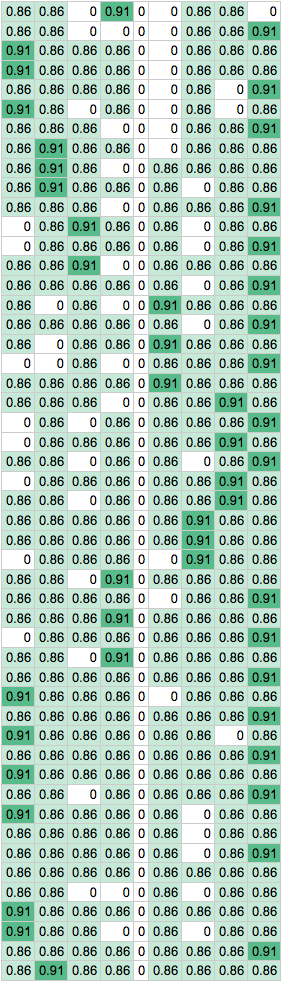
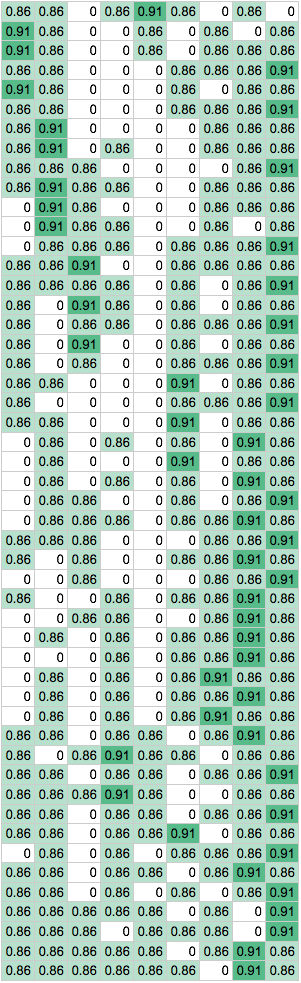
also track when direction vector is in center of matrix, i.e. under threshold for motion; when treated as no motion

diff --git a/webApp/gestures.js b/webApp/gestures.js
@@ -180,7 +180,7 @@ function getVelocityDirection(event) {
     if (Math.abs(dx) < thresholdMovementSize && Math.abs(dy) < thresholdMovementSize) {
         directionx = 1;
         directiony = 1;
-        directionMatrix[directionx][directiony] = 0;
+        directionMatrix[directionx][directiony] = 1;
     } else {
         document.getElementById("checkSamplePeriod").innerHTML = parseInt(document.getElementById("checkSamplePeriod").innerHTML) + 1;
         if (dx < 0) {

diff --git a/webApp/split.py b/webApp/split.py
@@ -4,7 +4,7 @@
 # with empty lines between each line.
 
 # copy the wts string from gestures.html (in your browser) and put it between quotation marks here:
-wts = "0.86,0.86,0,0.91,0,0,0.86,0.86,0,0.86,0.86,0,0,0,0,0.86,0.86,0.91,0.91,0.86,0.86,0.86,0,0,0.86,0.86,0.86,0.91,0.86,0.86,0.86,0,0,0.86,0.86,0.86,0.86,0.86,0.86,0.86,0,0,0.86,0,0.91,0.91,0.86,0,0.86,0,0,0.86,0,0.86,0.86,0.86,0.86,0,0,0,0.86,0.86,0.91,0.86,0.91,0.86,0.86,0,0,0.86,0.86,0.86,0.86,0.91,0.86,0,0,0.86,0.86,0.86,0.86,0.86,0.91,0.86,0.86,0,0.86,0,0.86,0.86,0.86,0.86,0.86,0,0,0.86,0.86,0.86,0.91,0,0.86,0.91,0.86,0,0.86,0,0.86,0.86,0,0.86,0.86,0.86,0,0.86,0,0.86,0.91,0.86,0.86,0.91,0,0,0.86,0.86,0.86,0.86,0.86,0.86,0.86,0.86,0,0.86,0,0.86,0.91,0.86,0,0.86,0,0,0.91,0.86,0.86,0.86,0.86,0.86,0.86,0.86,0,0.86,0,0.86,0.91,0.86,0,0.86,0.86,0,0.91,0.86,0.86,0.86,0,0,0.86,0,0,0.86,0.86,0.86,0.91,0.86,0.86,0.86,0.86,0,0.91,0.86,0.86,0.86,0.86,0.86,0.86,0,0,0.86,0.86,0.91,0.86,0,0.86,0,0.86,0,0.86,0.86,0.86,0.91,0,0.86,0.86,0.86,0,0.86,0.86,0.91,0.86,0.86,0.86,0,0.86,0,0.86,0,0.86,0.91,0,0.86,0.86,0.86,0,0.86,0.86,0.91,0.86,0.86,0.86,0,0.86,0,0.86,0.86,0.91,0.86,0.86,0.86,0.86,0.86,0,0.86,0.91,0.86,0.86,0.86,0.86,0.86,0.86,0,0.86,0.91,0.86,0.86,0,0.86,0.86,0.86,0,0,0.91,0.86,0.86,0.86,0.86,0,0.91,0,0.86,0.86,0.86,0.86,0.86,0.86,0.86,0.86,0,0,0.86,0.86,0.91,0.86,0.86,0.86,0.91,0,0.86,0.86,0.86,0.86,0,0.86,0.86,0.86,0,0.86,0.86,0.86,0.91,0.86,0.86,0,0.91,0,0.86,0.86,0.86,0.86,0.86,0.86,0.86,0.86,0,0.86,0.86,0.86,0.91,0.91,0.86,0.86,0.86,0,0,0.86,0.86,0.86,0.86,0.86,0.86,0.86,0,0.86,0.86,0.86,0.91,0.91,0.86,0.86,0.86,0,0.86,0.86,0,0.86,0.86,0.86,0.86,0.86,0,0.86,0.86,0.86,0.91,0.91,0.86,0.86,0.86,0,0.86,0.86,0.86,0.86,0.86,0.86,0,0.86,0,0.86,0.86,0.86,0.91,0.91,0.86,0.86,0.86,0,0.86,0,0.86,0.86,0.86,0.86,0.86,0.86,0,0.86,0,0.86,0.86,0.86,0.86,0.86,0.86,0,0.86,0,0.86,0.91,0.86,0.86,0.86,0.86,0,0.86,0.86,0.86,0.86,0.86,0.86,0,0,0,0.86,0,0.86,0.86,0.91,0.86,0.86,0.86,0,0.86,0.86,0.86,0.86,0.91,0.86,0.86,0,0,0.86,0,0.86,0.86,0.86,0.86,0.86,0.86,0,0.86,0.86,0.86,0.91,0.86,0.91,0.86,0.86,0,0.86,0.86,0.86,0.86"
+wts="0.86,0.86,0,0.86,0.91,0.86,0,0.86,0,0.91,0.86,0,0,0.86,0,0.86,0,0.86,0.91,0.86,0,0,0.86,0,0.86,0.86,0.86,0.86,0.86,0,0,0,0.86,0.86,0.86,0.91,0.91,0.86,0,0,0,0.86,0,0.86,0.86,0.86,0.86,0,0,0,0.86,0.86,0.86,0.91,0.86,0.91,0,0,0,0,0.86,0.86,0.86,0.86,0.91,0,0.86,0,0,0.86,0.86,0.86,0.86,0.86,0.86,0,0,0,0,0.86,0.91,0.86,0.91,0.86,0.86,0,0,0.86,0.86,0.86,0,0.91,0.86,0,0,0,0.86,0.86,0.86,0,0.91,0.86,0.86,0,0,0.86,0,0.86,0,0.86,0.86,0.86,0,0.86,0.86,0.86,0.91,0.86,0.86,0.91,0,0,0.86,0.86,0.86,0.86,0.86,0.86,0.86,0.86,0,0.86,0,0.86,0.91,0.86,0,0.91,0.86,0,0.86,0,0.86,0.86,0.86,0,0.86,0.86,0,0.86,0.86,0.86,0.91,0.86,0,0.91,0,0,0.86,0,0.86,0.86,0.86,0,0.86,0,0,0.86,0.86,0.86,0.91,0.86,0.86,0,0,0,0.91,0,0.86,0.86,0.86,0,0,0,0,0.86,0.86,0.86,0.91,0.86,0.86,0,0,0,0.91,0,0.86,0.86,0,0.86,0,0.86,0,0.86,0,0.91,0.86,0,0.86,0,0,0,0.91,0,0.86,0.86,0,0.86,0,0.86,0,0.86,0,0.91,0.86,0,0.86,0.86,0,0,0.86,0,0.86,0.91,0,0.86,0.86,0.86,0,0.86,0.86,0.91,0.86,0.86,0.86,0.86,0,0,0,0.86,0.86,0.91,0.86,0,0.86,0,0,0.86,0.86,0.91,0.86,0,0,0.86,0,0,0,0.86,0.86,0.91,0.86,0,0,0.86,0,0.86,0.86,0.91,0.86,0,0,0.86,0.86,0,0,0.86,0.91,0.86,0,0.86,0,0.86,0,0.86,0.86,0.91,0.86,0,0,0,0.86,0,0.86,0.86,0.91,0.86,0,0.86,0,0.86,0,0.86,0.91,0.86,0.86,0,0.86,0,0.86,0,0.86,0.86,0.91,0.86,0,0.86,0,0.86,0,0.86,0.91,0.86,0.86,0.86,0.86,0,0.86,0.86,0,0.86,0.91,0.86,0.86,0,0.86,0.91,0.86,0.86,0,0.86,0.86,0.86,0.86,0,0.86,0.86,0,0.86,0.86,0.91,0.86,0.86,0.86,0.91,0.86,0,0,0.86,0.86,0.86,0.86,0,0.86,0.86,0,0.86,0.86,0.91,0.86,0.86,0,0.86,0.86,0.91,0,0.86,0.86,0,0.86,0,0.86,0,0.86,0.86,0.86,0.91,0.86,0.86,0,0.86,0.86,0,0.86,0.91,0.86,0.86,0.86,0,0.86,0,0.86,0,0.86,0.91,0.86,0.86,0.86,0.86,0.86,0,0.86,0,0.91,0.86,0.86,0.86,0,0.86,0.86,0.86,0,0.91,0.86,0.86,0.86,0.86,0.86,0,0.86,0.91,0.86,0.86,0.86,0.86,0.86,0.86,0.86,0,0.91,0.86"
 
 splitString = wts.split(",")
 

diff --git a/webApp/README.md b/webApp/README.md
@@ -80,7 +80,7 @@ var confidenceThreshold = 80;
 
 From this un-formatted string of numbers...
 
-<sub>wts=0.86,0.86,0,0.91,0,0,0.86,0.86,0,0.86,0.86,0,0,0,0,0.86,0.86,0.91,0.91,0.86,0.86,0.86,0,0,0.86,0.86,0.86,0.91,0.86,0.86,0.86,0,0,0.86,0.86,0.86,0.86,0.86,0.86,0.86,0,0,0.86,0,0.91,0.91,0.86,0,0.86,0,0,0.86,0,0.86,0.86,0.86,0.86,0,0,0,0.86,0.86,0.91,0.86,0.91,0.86,0.86,0,0,0.86,0.86,0.86,0.86,0.91,0.86,0,0,0.86,0.86,0.86,0.86,0.86,0.91,0.86,0.86,0,0.86,0,0.86,0.86,0.86,0.86,0.86,0,0,0.86,0.86,0.86,0.91,0,0.86,0.91,0.86,0,0.86,0,0.86,0.86,0,0.86,0.86,0.86,0,0.86,0,0.86,0.91,0.86,0.86,0.91,0,0,0.86,0.86,0.86,0.86,0.86,0.86,0.86,0.86,0,0.86,0,0.86,0.91,0.86,0,0.86,0,0,0.91,0.86,0.86,0.86,0.86,0.86,0.86,0.86,0,0.86,0,0.86,0.91,0.86,0,0.86,0.86,0,0.91,0.86,0.86,0.86,0,0,0.86,0,0,0.86,0.86,0.86,0.91,0.86,0.86,0.86,0.86,0,0.91,0.86,0.86,0.86,0.86,0.86,0.86,0,0,0.86,0.86,0.91,0.86,0,0.86,0,0.86,0,0.86,0.86,0.86,0.91,0,0.86,0.86,0.86,0,0.86,0.86,0.91,0.86,0.86,0.86,0,0.86,0,0.86,0,0.86,0.91,0,0.86,0.86,0.86,0,0.86,0.86,0.91,0.86,0.86,0.86,0,0.86,0,0.86,0.86,0.91,0.86,0.86,0.86,0.86,0.86,0,0.86,0.91,0.86,0.86,0.86,0.86,0.86,0.86,0,0.86,0.91,0.86,0.86,0,0.86,0.86,0.86,0,0,0.91,0.86,0.86,0.86,0.86,0,0.91,0,0.86,0.86,0.86,0.86,0.86,0.86,0.86,0.86,0,0,0.86,0.86,0.91,0.86,0.86,0.86,0.91,0,0.86,0.86,0.86,0.86,0,0.86,0.86,0.86,0,0.86,0.86,0.86,0.91,0.86,0.86,0,0.91,0,0.86,0.86,0.86,0.86,0.86,0.86,0.86,0.86,0,0.86,0.86,0.86,0.91,0.91,0.86,0.86,0.86,0,0,0.86,0.86,0.86,0.86,0.86,0.86,0.86,0,0.86,0.86,0.86,0.91,0.91,0.86,0.86,0.86,0,0.86,0.86,0,0.86,0.86,0.86,0.86,0.86,0,0.86,0.86,0.86,0.91,0.91,0.86,0.86,0.86,0,0.86,0.86,0.86,0.86,0.86,0.86,0,0.86,0,0.86,0.86,0.86,0.91,0.91,0.86,0.86,0.86,0,0.86,0,0.86,0.86,0.86,0.86,0.86,0.86,0,0.86,0,0.86,0.86,0.86,0.86,0.86,0.86,0,0.86,0,0.86,0.91,0.86,0.86,0.86,0.86,0,0.86,0.86,0.86,0.86,0.86,0.86,0,0,0,0.86,0,0.86,0.86,0.91,0.86,0.86,0.86,0,0.86,0.86,0.86,0.86,0.91,0.86,0.86,0,0,0.86,0,0.86,0.86,0.86,0.86,0.86,0.86,0,0.86,0.86,0.86,0.91,0.86,0.91,0.86,0.86,0,0.86,0.86,0.86,0.86</sub>
+<sub>wts=0.86,0.86,0,0.86,0.91,0.86,0,0.86,0,0.91,0.86,0,0,0.86,0,0.86,0,0.86,0.91,0.86,0,0,0.86,0,0.86,0.86,0.86,0.86,0.86,0,0,0,0.86,0.86,0.86,0.91,0.91,0.86,0,0,0,0.86,0,0.86,0.86,0.86,0.86,0,0,0,0.86,0.86,0.86,0.91,0.86,0.91,0,0,0,0,0.86,0.86,0.86,0.86,0.91,0,0.86,0,0,0.86,0.86,0.86,0.86,0.86,0.86,0,0,0,0,0.86,0.91,0.86,0.91,0.86,0.86,0,0,0.86,0.86,0.86,0,0.91,0.86,0,0,0,0.86,0.86,0.86,0,0.91,0.86,0.86,0,0,0.86,0,0.86,0,0.86,0.86,0.86,0,0.86,0.86,0.86,0.91,0.86,0.86,0.91,0,0,0.86,0.86,0.86,0.86,0.86,0.86,0.86,0.86,0,0.86,0,0.86,0.91,0.86,0,0.91,0.86,0,0.86,0,0.86,0.86,0.86,0,0.86,0.86,0,0.86,0.86,0.86,0.91,0.86,0,0.91,0,0,0.86,0,0.86,0.86,0.86,0,0.86,0,0,0.86,0.86,0.86,0.91,0.86,0.86,0,0,0,0.91,0,0.86,0.86,0.86,0,0,0,0,0.86,0.86,0.86,0.91,0.86,0.86,0,0,0,0.91,0,0.86,0.86,0,0.86,0,0.86,0,0.86,0,0.91,0.86,0,0.86,0,0,0,0.91,0,0.86,0.86,0,0.86,0,0.86,0,0.86,0,0.91,0.86,0,0.86,0.86,0,0,0.86,0,0.86,0.91,0,0.86,0.86,0.86,0,0.86,0.86,0.91,0.86,0.86,0.86,0.86,0,0,0,0.86,0.86,0.91,0.86,0,0.86,0,0,0.86,0.86,0.91,0.86,0,0,0.86,0,0,0,0.86,0.86,0.91,0.86,0,0,0.86,0,0.86,0.86,0.91,0.86,0,0,0.86,0.86,0,0,0.86,0.91,0.86,0,0.86,0,0.86,0,0.86,0.86,0.91,0.86,0,0,0,0.86,0,0.86,0.86,0.91,0.86,0,0.86,0,0.86,0,0.86,0.91,0.86,0.86,0,0.86,0,0.86,0,0.86,0.86,0.91,0.86,0,0.86,0,0.86,0,0.86,0.91,0.86,0.86,0.86,0.86,0,0.86,0.86,0,0.86,0.91,0.86,0.86,0,0.86,0.91,0.86,0.86,0,0.86,0.86,0.86,0.86,0,0.86,0.86,0,0.86,0.86,0.91,0.86,0.86,0.86,0.91,0.86,0,0,0.86,0.86,0.86,0.86,0,0.86,0.86,0,0.86,0.86,0.91,0.86,0.86,0,0.86,0.86,0.91,0,0.86,0.86,0,0.86,0,0.86,0,0.86,0.86,0.86,0.91,0.86,0.86,0,0.86,0.86,0,0.86,0.91,0.86,0.86,0.86,0,0.86,0,0.86,0,0.86,0.91,0.86,0.86,0.86,0.86,0.86,0,0.86,0,0.91,0.86,0.86,0.86,0,0.86,0.86,0.86,0,0.91,0.86,0.86,0.86,0.86,0.86,0,0.86,0.91,0.86,0.86,0.86,0.86,0.86,0.86,0.86,0,0.91,0.86</sub>
 
 ...we get this visualization:
 
